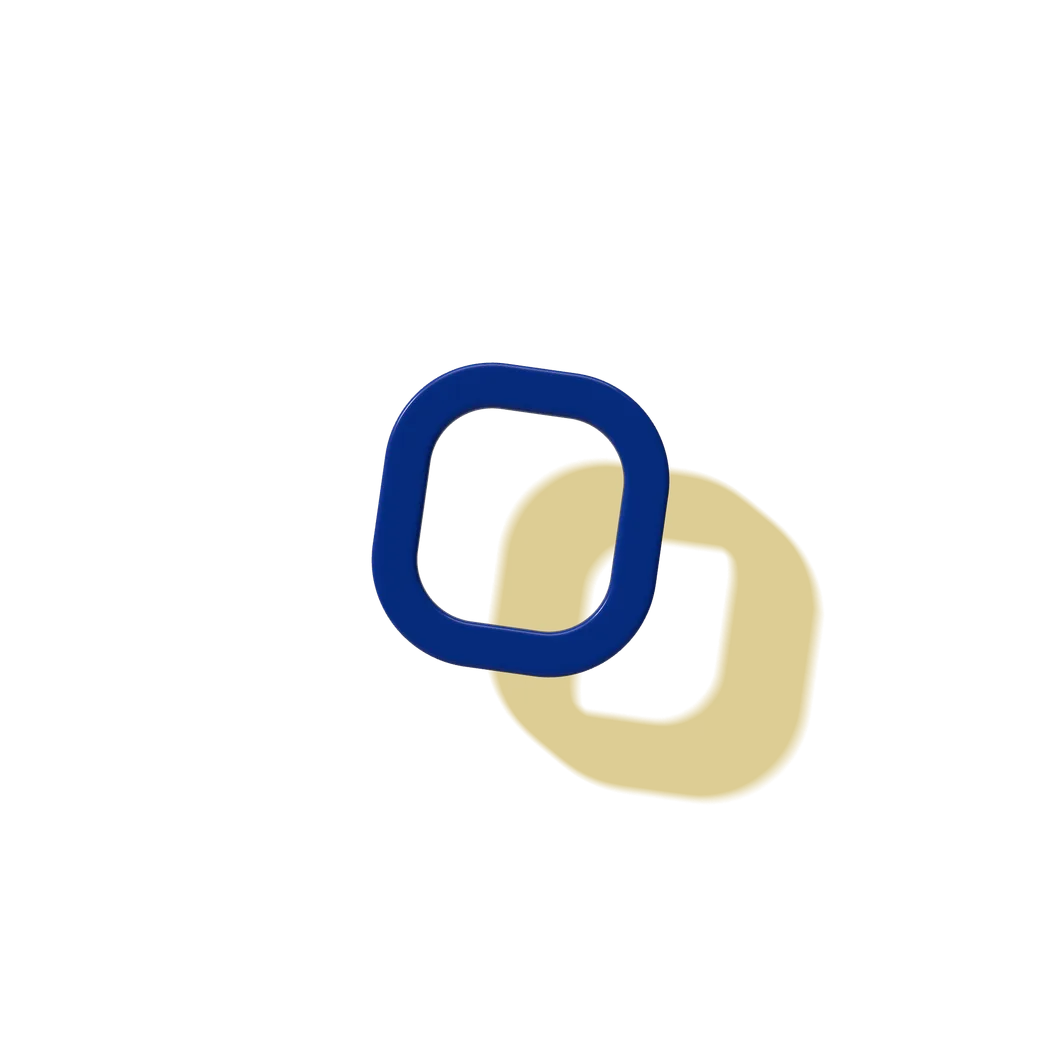
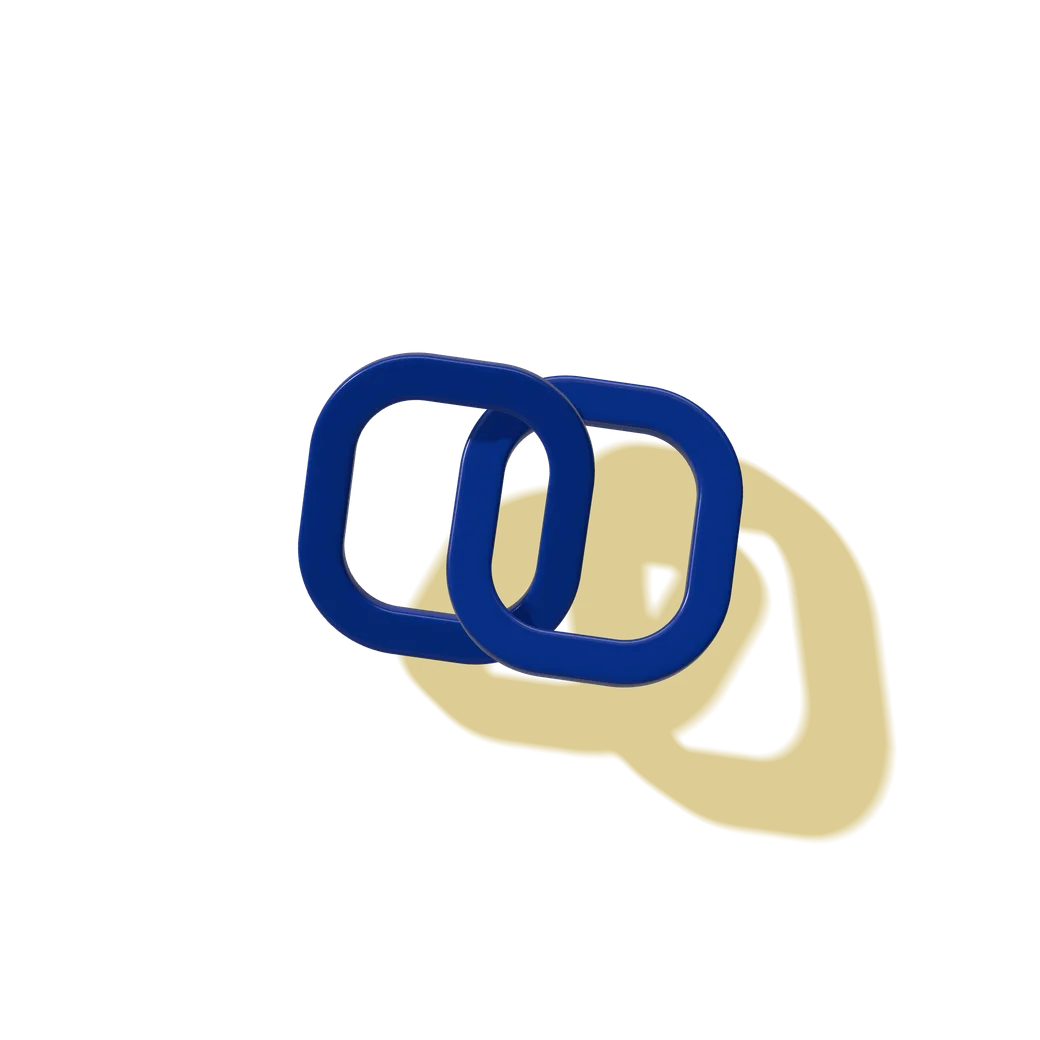
fix: half-width close-up, one gold checkpoint, two rings on the close
- narrow screens: the thesis close-up hung into the histories and vanished
  in view when the object cut to the mark; give it room, and cut only once
  its anchor says it has left the screen
- the signed checkpoint keeps its gold through the break and the cover-up;
  the dark-then-hot treatment read as gold -> blue -> gold in the new
  palette. The pulled link keeps its own colour, so gold on a link only ever
  means the checkpoint
- the close shows the whole mark in solid Berkeley Blue (Blue on Gold); the
  flat nav and footer marks on gold go one colour too, since White on Gold
  is not a brand pairing
- playground: dark colour scheme and a thin porcelain scrollbar on navy, a
  "click to type" caret that becomes a live "recording" dot on focus
- history notes switch to their short labels below 1000px, where the long
  ones ran into each other; the tool map centres in one column

Changed region(s): [[0.2769, 0.3385, 0.8615, 0.8308]]

diff --git a/src/styles/sections.css b/src/styles/sections.css
@@ -154,15 +154,17 @@ section {
   max-width: 38ch;
 }
 @media (max-width: 900px) {
+  /* Room below the copy for the close-up, which must be off-screen before the
+     histories arrive: the object cuts to the mark there. */
   .thesis {
-    min-height: 120vh;
+    min-height: 150vh;
     align-items: flex-start;
     padding-top: 14vh;
   }
   .thesis__anchor {
     left: 70%;
-    top: 82%;
-    height: 78vh;
+    top: 66%;
+    height: 72vh;
   }
   .thesis__title,
   .thesis__body {
@@ -425,6 +427,15 @@ html.no-js .note {
     grid-template-columns: 1fr;
   }
 }
+/* The long labels run into each other below this width. */
+@media (max-width: 1000px) {
+  .note__long {
+    display: none;
+  }
+  .note__short {
+    display: inline;
+  }
+}
 @media (max-width: 640px) {
   .record__stats {
     gap: 12px;
@@ -432,12 +443,6 @@ html.no-js .note {
   }
   .record__track {
     margin-top: 10px;
-  }
-  .note__long {
-    display: none;
-  }
-  .note__short {
-    display: inline;
   }
   .records__replay {
     grid-column: 1;
@@ -964,6 +969,7 @@ html.no-js .how__copy[data-phase='chain'] {
   contain: layout paint;
   background: var(--night-1);
   color: var(--porcelain);
+  color-scheme: dark;
   box-shadow: 0 40px 100px -40px rgb(4 30 66 / 0.45);
 }
 .playground__editor,
@@ -1000,6 +1006,62 @@ html.no-js .how__copy[data-phase='chain'] {
   opacity: 0.4;
   cursor: default;
 }
+.playground__file {
+  display: inline-flex;
+  align-items: baseline;
+  gap: 14px;
+}
+/* A quiet sign the editor takes typing: an invitation with a caret, then a live dot. */
+.playground__status {
+  color: rgb(245 245 242 / 0.5);
+}
+.playground__hint::after {
+  content: '';
+  display: inline-block;
+  width: 0.5em;
+  height: 1.1em;
+  margin-left: 4px;
+  vertical-align: -0.2em;
+  background: var(--gold);
+  animation: caret 1.1s steps(1) infinite;
+}
+.playground__live {
+  display: none;
+  color: var(--gold);
+}
+.playground__live::before {
+  content: '';
+  display: inline-block;
+  width: 6px;
+  height: 6px;
+  margin-right: 7px;
+  vertical-align: 0.1em;
+  border-radius: 50%;
+  background: currentColor;
+  animation: live 1.6s var(--ease-soft) infinite;
+}
+.playground__editor:focus-within .playground__hint {
+  display: none;
+}
+.playground__editor:focus-within .playground__live {
+  display: inline;
+}
+@keyframes caret {
+  50% {
+    opacity: 0;
+  }
+}
+@keyframes live {
+  50% {
+    opacity: 0.35;
+  }
+}
+@media (prefers-reduced-motion: reduce) {
+  .playground__hint::after,
+  .playground__live::before {
+    animation: none;
+  }
+}
 .playground__input {
   width: 100%;
   height: 100%;
@@ -1010,9 +1072,16 @@ html.no-js .how__copy[data-phase='chain'] {
   background: transparent;
   color: var(--porcelain);
   caret-color: var(--accent-n);
+  cursor: text;
+  scrollbar-width: thin;
+  scrollbar-color: rgb(245 245 242 / 0.22) transparent;
+  transition: background-color 0.3s var(--ease-soft);
   font-size: 0.875rem;
   line-height: 1.7;
   tab-size: 4;
+}
+.playground__input:hover {
+  background: rgb(245 245 242 / 0.025);
 }
 .playground__input:focus-visible {
   outline: none;
@@ -1341,6 +1410,7 @@ a.tool:hover {
     grid-template-columns: 1fr;
     row-gap: 44px;
     max-width: 520px;
+    margin-inline: auto;
   }
   .suite__stage {
     position: static;

diff --git a/src/scene/stage.ts b/src/scene/stage.ts
@@ -46,7 +46,6 @@ const COLORS = {
   ink: new Color('#002676'),
   // Broken links go dark into the navy, not to grey steel.
   ash: new Color('#17223c'),
-  hot: new Color('#ffc31b'),
 };
 
 const FOV = 22;
@@ -409,7 +408,10 @@ export class Stage {
       .convertLinearToSRGB()
       .lerp(new Color().copy(COLORS.ink).convertLinearToSRGB(), blue)
       .convertSRGBToLinear();
-    const accentColor = new Color().copy(COLORS.accent).lerp(COLORS.accentDay, day);
+    const goldAccent = new Color().copy(COLORS.accent).lerp(COLORS.accentDay, day);
+    const blueAccent =
+      (k0.accent === 'blue' ? 1 : 0) * (1 - f) + (k1.accent === 'blue' ? 1 : 0) * f;
+    const accentColor = goldAccent.lerp(COLORS.ink, blueAccent);
 
     for (let i = 0; i < LINK_COUNT; i++) {
       const p = lp[i]!;
@@ -426,19 +428,18 @@ export class Stage {
       // Colour: base colourway, then the break.
       const isAccent = i === 1;
       color.copy(isAccent ? accentColor : inkColor);
-      if (this.brokenSlot !== null && demo > 0) {
+      // The signed checkpoint keeps its gold through the break and the cover-up: what gives
+      // it away is that it is knocked out of the chain, and the ledger's signature mismatch.
+      if (this.brokenSlot !== null && demo > 0 && !isAccent) {
         const base = scratch.copy(color);
         const slot = chainSlot(i);
         const d = slot - this.brokenSlot;
         const healed = MathUtils.clamp(coverWave - d, 0, 1);
-        if (d === 0) {
-          color.lerp(COLORS.hot, MathUtils.clamp(this.wave, 0, 1));
-          color.lerp(COLORS.porcelain, MathUtils.clamp(this.cover * 4, 0, 1));
-        } else if (d > 0) {
-          const dark = MathUtils.clamp(this.wave - d, 0, 1) * (isAccent ? 1 : 0.92 * (1 - healed));
+        // The pulled link keeps its own colour (pulling it out is the mark); gold stays the
+        // signed checkpoint's alone.
+        if (d > 0) {
+          const dark = MathUtils.clamp(this.wave - d, 0, 1) * 0.92 * (1 - healed);
           color.lerp(COLORS.ash, dark);
-          // The signed checkpoint can't be recomputed: once the rest heals, it runs hot.
-          if (isAccent) color.lerp(COLORS.hot, healed);
         }
         color.lerp(base, 1 - demo);
       }

diff --git a/src/timeline/acts.ts b/src/timeline/acts.ts
@@ -34,7 +34,16 @@ const ramp = (x: number, a: number, b: number) => smooth((x - a) / (b - a));
  */
 export class Acts {
   private readonly el: Record<
-    'thesis' | 'histories' | 'how' | 'relight' | 'tryit' | 'close' | 'nav' | 'evening' | 'ledger',
+    | 'thesis'
+    | 'closeup'
+    | 'histories'
+    | 'how'
+    | 'relight'
+    | 'tryit'
+    | 'close'
+    | 'nav'
+    | 'evening'
+    | 'ledger',
     HTMLElement
   >;
   private readonly copies: Record<HowPhase, HTMLElement>;
@@ -55,6 +64,7 @@ export class Acts {
     };
     this.el = {
       thesis: q('.thesis'),
+      closeup: q('[data-anchor="thesis"]'),
       histories: q('.histories'),
       how: q('.how'),
       relight: q('.relight'),
@@ -112,8 +122,12 @@ export class Acts {
     // Object: hero -> thesis, then a cut to the mark while the two histories are on
     // screen, the mark rounds into the chain, the relight, and a cut to the close.
     let s: number;
-    // Narrow: the close-up leaves (off-screen) once the histories take the screen.
-    if (narrow && how.top >= vh && histories.top < vh * 0.4) s = KF.mark;
+    // Narrow: once the histories take the screen, cut to the mark, but only after the
+    // close-up has scrolled off: the anchor is one link tall, and the turned link reaches
+    // about one more anchor height past its centre.
+    const closeup = r(this.el.closeup);
+    const closeupGone = closeup.top + closeup.height * 1.5 < 0;
+    if (narrow && how.top >= vh && histories.top < vh * 0.4 && closeupGone) s = KF.mark;
     else if (how.top >= vh) s = KF.hero + p01;
     else if (p23 <= 0) s = KF.mark + ramp(howP, 0.05, 0.22);
     else if (tryit.top + tryit.height / 2 > vh / 2) s = KF.chain + p23;

diff --git a/src/scene/keyframes.ts b/src/scene/keyframes.ts
@@ -14,6 +14,9 @@ export interface Keyframe {
   round: number;
   /** the plain link: Berkeley Blue wherever the object is the logo, porcelain as a chain */
   ink: 'blue' | 'porcelain';
+  /** the accent link: California Gold (default), or Berkeley Blue where the ground is gold
+   *  and the mark goes one colour, the brand's Blue on Gold */
+  accent?: 'gold' | 'blue';
   /** lighting: 0 night studio, 1 day sun */
   day: number;
   /** in daylight, how low the sun sits: 1 (default) a low late sun and a long, crisp
@@ -102,11 +105,13 @@ export const KEYFRAMES: readonly Keyframe[] = [
     stream: true,
   },
   {
-    form: 'single',
+    // The whole mark, one colour on the gold ground.
+    form: 'pair',
     anchor: '[data-anchor="close"]',
     rotation: [0, 0, -8],
     round: 0,
     ink: 'blue',
+    accent: 'blue',
     day: 0.85,
     shadow: 0.42,
     shadowDepth: 0.3,

diff --git a/index.html b/index.html
@@ -617,7 +617,13 @@
             <div class="playground" data-playground>
               <div class="playground__editor">
                 <div class="playground__bar mono">
-                  <span>scratch.py</span>
+                  <span class="playground__file"
+                    >scratch.py
+                    <span class="playground__status" aria-hidden="true"
+                      ><span class="playground__hint">click to type</span
+                      ><span class="playground__live">recording</span></span
+                    ></span
+                  >
                   <button class="playground__replay mono" type="button" data-replay>Replay</button>
                 </div>
                 <label class="visually-hidden" for="scratch"

diff --git a/src/styles/frame.css b/src/styles/frame.css
@@ -130,6 +130,7 @@ main {
 
 [data-theme='night'] {
   color: var(--porcelain);
+  color-scheme: dark;
   --mark-ink: var(--porcelain);
   --mark-accent: var(--accent-n);
   --accent: var(--accent-n);
@@ -147,7 +148,8 @@ main {
 [data-theme='signal'] {
   color: var(--ink);
   --mark-ink: var(--blue);
-  --mark-accent: var(--porcelain);
+  /* On gold the mark goes one colour: Blue on Gold (White on Gold is not a brand pairing). */
+  --mark-accent: var(--blue);
   --accent: var(--ink);
   --focus: var(--blue);
   --hair: rgb(4 30 66 / 0.22);

diff --git a/docs/superpowers/specs/2026-10-12-landing-page-design.md b/docs/superpowers/specs/2026-10-12-landing-page-design.md
@@ -86,7 +86,10 @@ does not follow `prefers-color-scheme`; there is no theme toggle.
 
 Colour roles: gold means act (the primary pill is gold on paper and navy, Berkeley Blue on the
 gold close); Berkeley Blue means structure (secondary pills, accent labels on paper, the mark).
-Focus rings are gold on navy and Berkeley Blue on paper and gold. The 3D plain link is Berkeley
+Focus rings are gold on navy and Berkeley Blue on paper and gold. Gold on a link means the
+signed checkpoint and nothing else: it keeps its gold through the break and the cover-up (what
+gives it away is being knocked out of the chain, and the ledger's signature mismatch), and the
+link a visitor pulls keeps its own colour. The 3D plain link is Berkeley
 Blue wherever the object is the logo and porcelain only as the chain, so a broken link going
 dark stays legible; the two blend in display space so the change never passes through grey.
 
@@ -325,7 +328,9 @@ The day ground floods to `--signal` over ~0.6 viewport heights, wiping up from t
 ### 9. Close (signal)
 
 Layout: poster. The _Signal_ woven pattern (rows of chain in `--signal-rule` outlines) fills the
-ground as texture; one link, solid ink, sits whole above it, rendered in 3D.
+ground as texture; the whole mark sits above it in 3D, both links solid Berkeley Blue: on gold
+the mark goes one colour, the brand's Blue on Gold (gold vanishes on gold, and White on Gold is
+not a brand pairing). The flat nav and footer marks over the gold do the same.
 
 > **Bring Provenance to your course.**
 >
